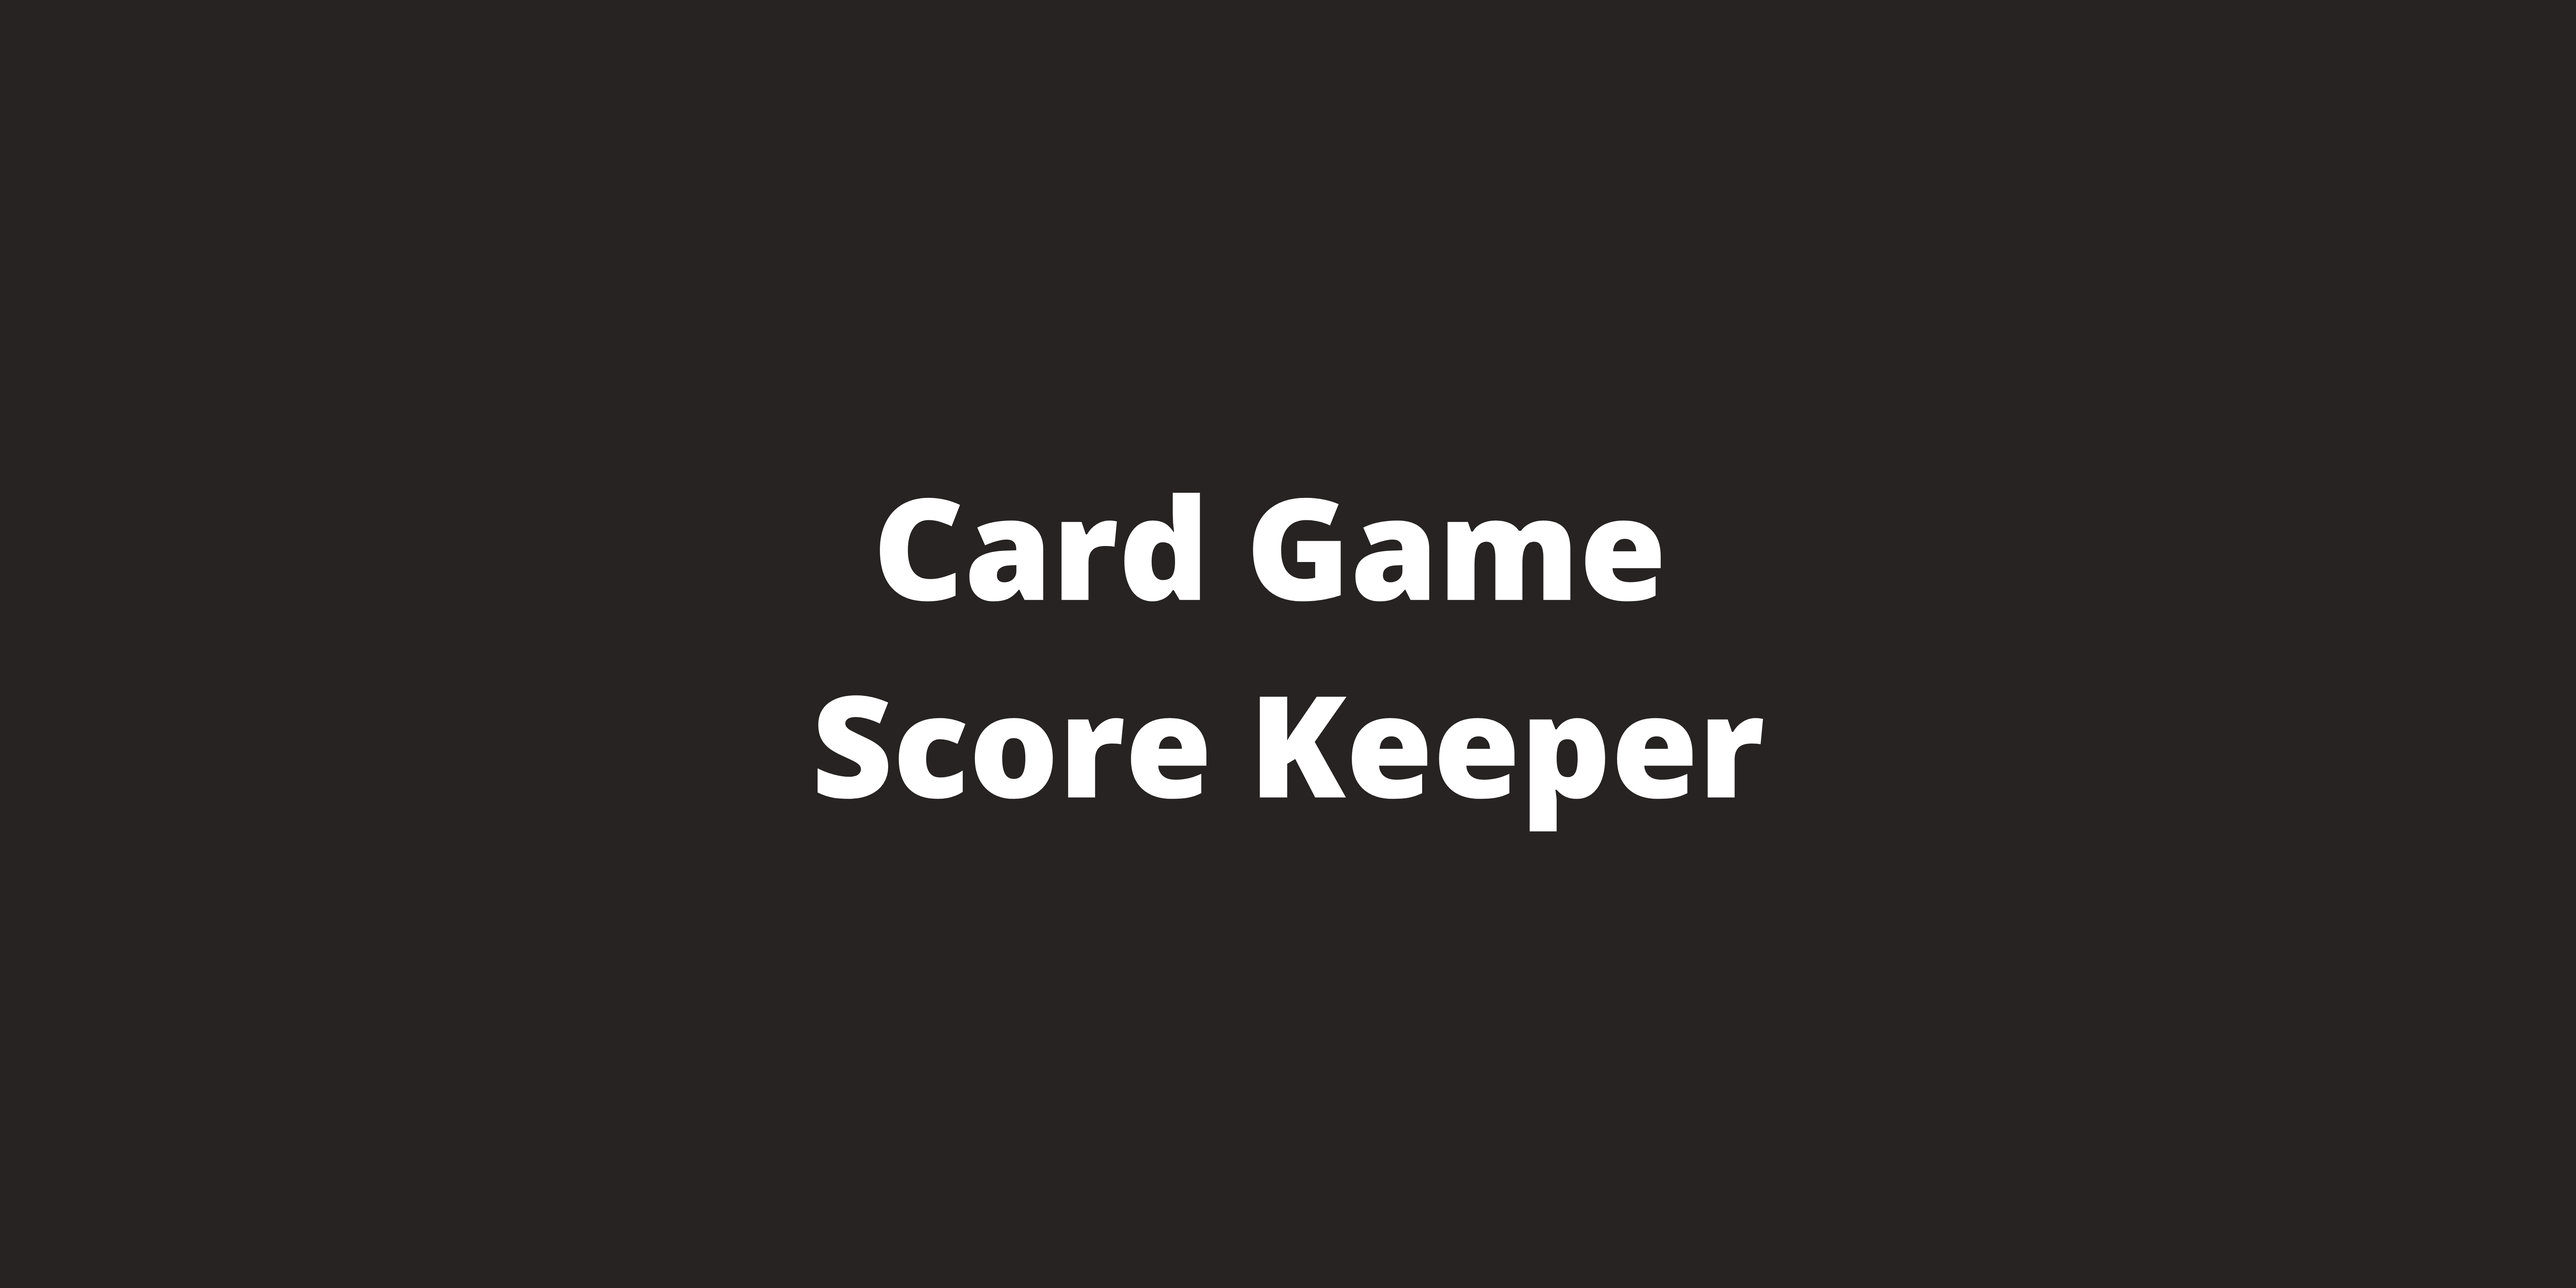
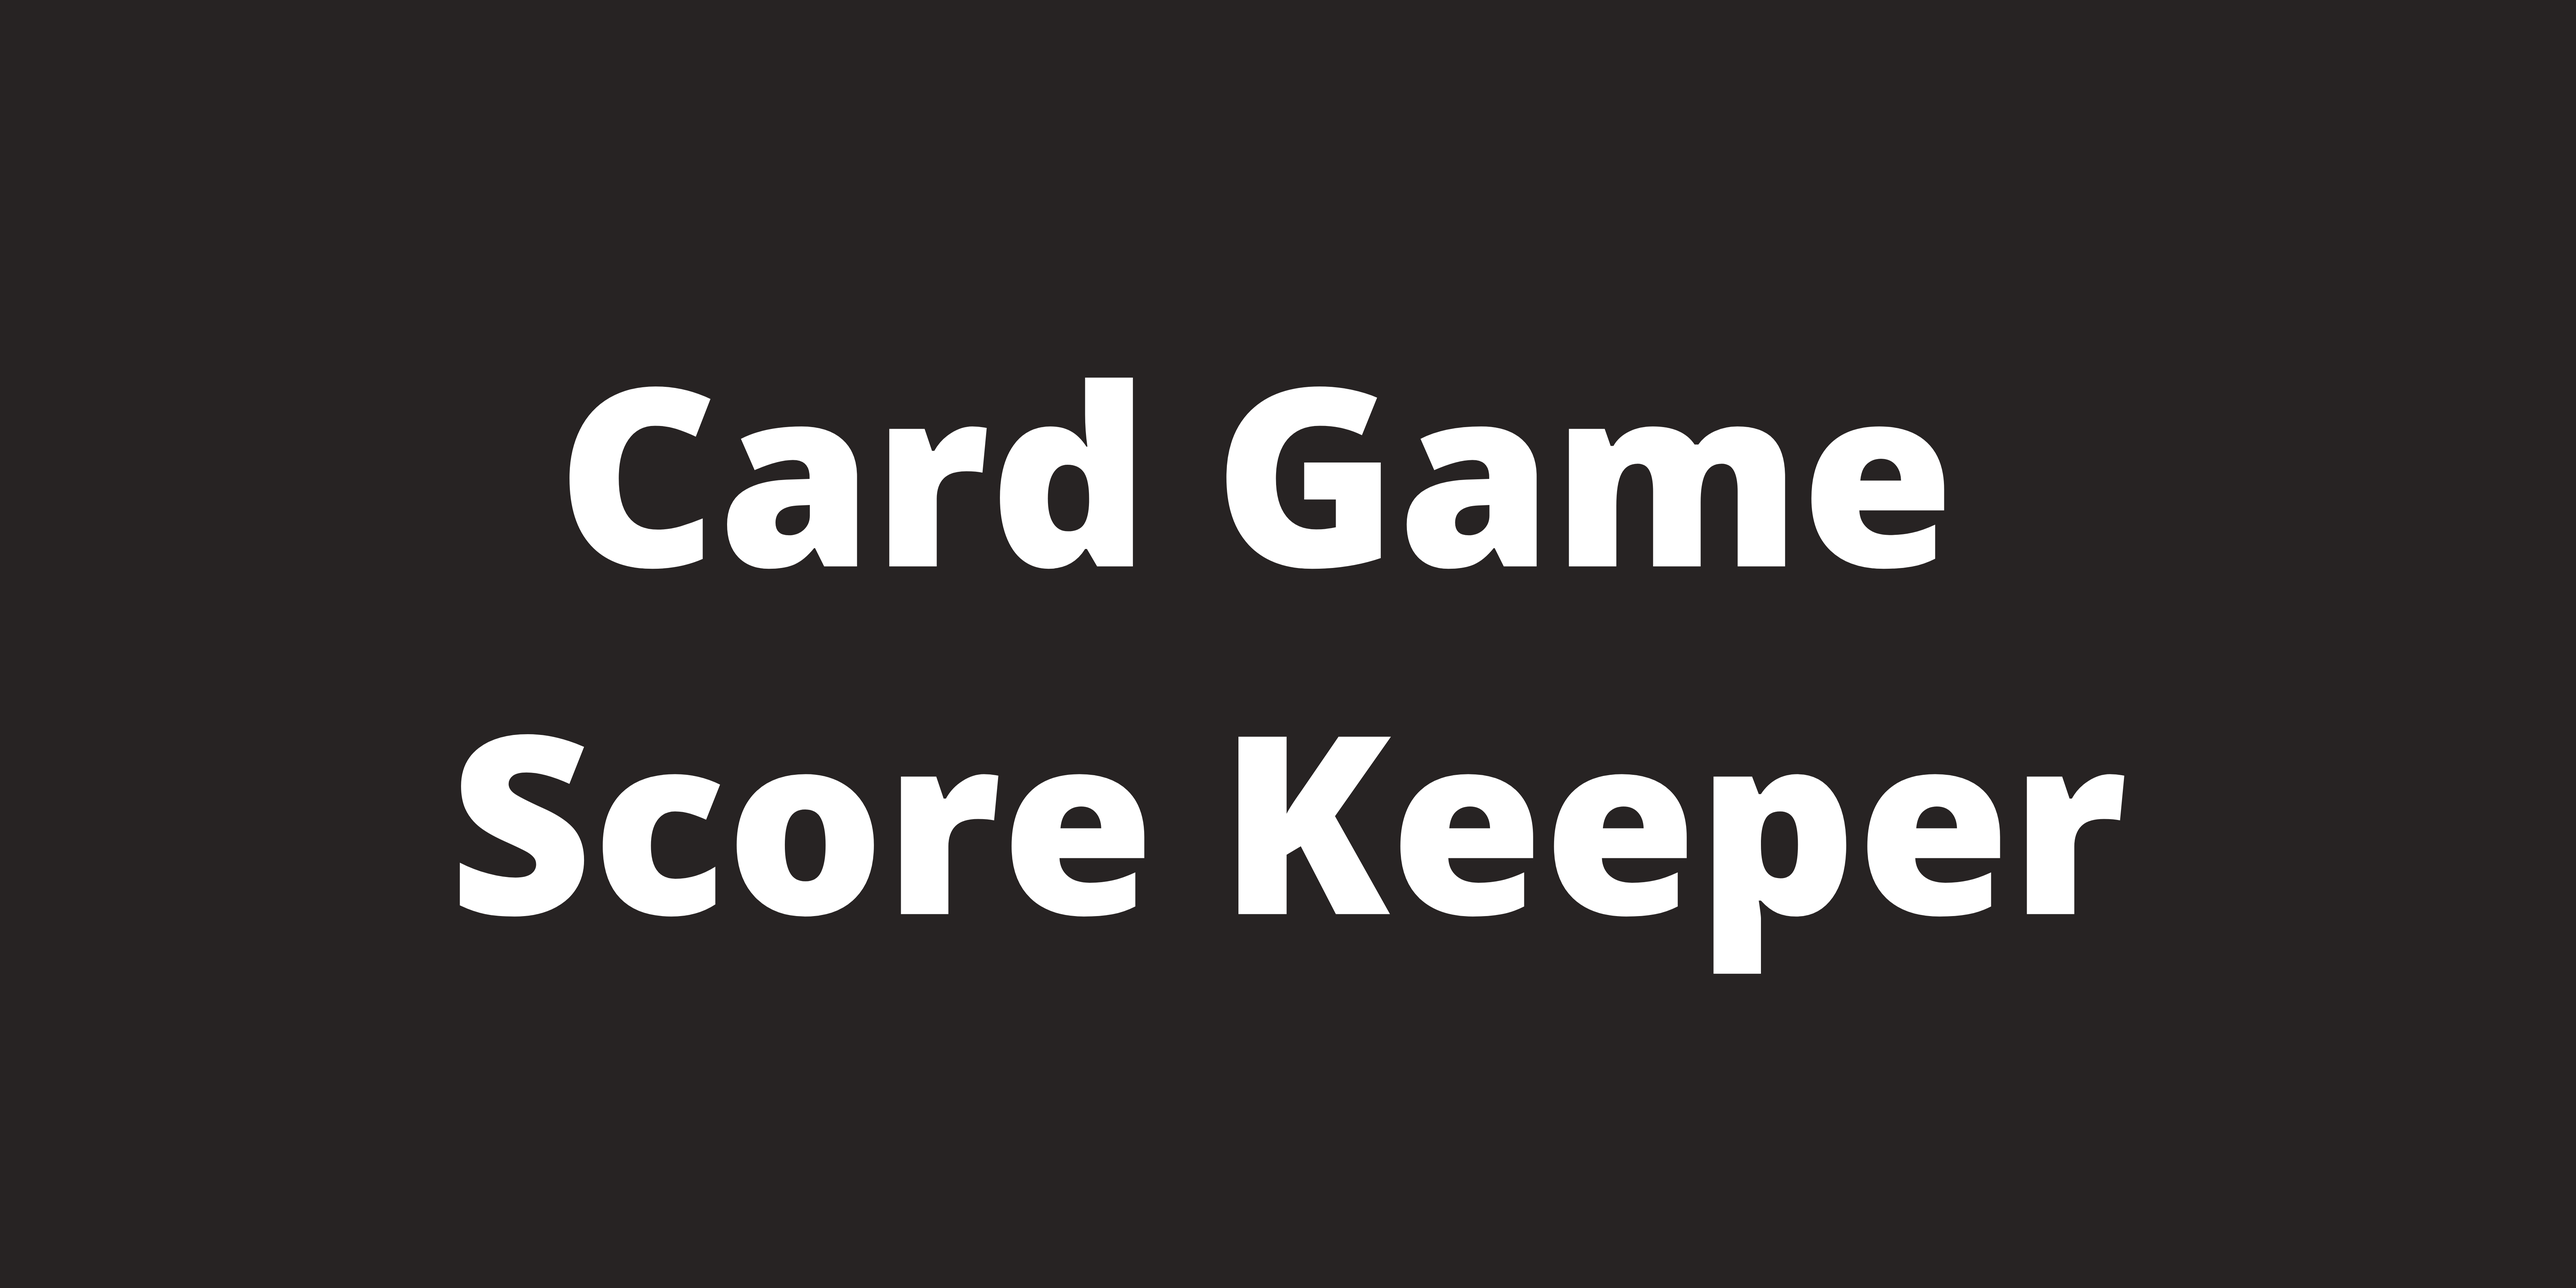
new styling

Changed region(s): [[0.1562, 0.5312, 0.8438, 0.7812], [0.2188, 0.2812, 0.7812, 0.4688]]

diff --git a/components/Layout.tsx b/components/Layout.tsx
@@ -8,28 +8,28 @@ type LayoutProps = {
 
 const Layout = ({children}: LayoutProps) => {
   return(
-    <div className="flex flex-col items-center justify-center  px-10 min-h-screen 	overflow-hidden	">
-      <header>
-        <nav className="h-8 absolute text-xl flex flex-row items-start justify-start mt-10 inset-0 px-10 lg:left-1/4 lg:px-2	">
+    <div>
+      <header className="sticky top-0 z-20 bg-white">
+        <nav className="py-2 px-4 text-xl font-bold mx-auto lg:max-w-4xl">
           <Link href={'/'}>
-            <a className="font-bold ">Home</a>
+            <a>Home</a>
           </Link>
           <Link href={'/#projects'}>
-            <a className="font-bold px-4">Projects</a>
+            <a className=" px-4">Projects</a>
           </Link>
           <Link href={'/HelpfulLinks'}>
-            <a className="font-bold "> Helpful Links</a>
+            <a>Helpful Links</a>
           </Link>
         </nav>
       </header>
-      <main className="flex flex-col items-center justify-center w-full lg:w-1/2 flex-1 text-center ">
+      <main className="px-4 flex flex-col items-center justify-center max-w-4xl mx-auto mt-16 antialiased ">
         {children}
       </main>
-      <footer className="pt-2 pb-12 border-t	w-full lg:w-1/2 h-full text-left text-xl">
+      <footer className="px-4 pt-2 pb-12 mt-10 border-t-2	max-w-4xl mx-auto text-left text-xl">
         <nav className="flex flex-row items-start justify-start mt-2">
-          <a className="" href={'https://github.com/theogainey/theogainey.com'}>GitHub</a>
+          <a href={'https://github.com/theogainey/theogainey.com'}>GitHub</a>
           <a className="px-4" href={'https://twitter.com/GaineyTheo'}>Twitter</a>
-          <a className="" href={'mailto:theogainey@gmail.com'}>Email</a>
+          <a  href={'mailto:theogainey@gmail.com'}>Email</a>
         </nav>
       </footer>
     </div>

diff --git a/pages/index.tsx b/pages/index.tsx
@@ -26,8 +26,8 @@ const Home = ({projects}: InferGetStaticPropsType<typeof getStaticProps>) => {
         <meta name="twitter:description" content="Theo Gainey - Full Stack Developer"/>
         <title>Theo Gainey </title>
       </Head>
-        <section id={'about'} className="h-screen flex flex-col items-center justify-center">
-          <h1 className="text-4xl font-bold my-2">Theo Gainey</h1>
+        <section id={'about'} className="flex flex-col items-center justify-center">
+          <h1 className="text-4xl font-bold mb-2">Theo Gainey</h1>
           <Image
             priority
             src="/profile.png"
@@ -38,13 +38,16 @@ const Home = ({projects}: InferGetStaticPropsType<typeof getStaticProps>) => {
             />
           <h2 className="text-xl font-bold">Full Stack Developer Apprentice</h2>
           <span className="text-xl">Sparkbox </span>
-          <p className="text-xl">Jan 2022 - present </p>
+          <span className="text-xl">Jan 2022 - present </span>
         </section>
-        <section id={'projects'} className="flex flex-col items-start justify-start w-full mb-6">
-          <h2 className="text-4xl font-bold mb-4 ">Projects</h2>
+        <section id={'projects'}>
+          <h2 className="text-4xl font-bold my-2 pt-16">Projects</h2>
+          <p className="text-lg ">See what I have built</p>
+          <div className="sm:grid sm:grid-cols-2 sm:gap-10">
           {projects.map((project) =>
             <ProjectCard key={project.id} {...project.properties}/>
           )}
+          </div>
         </section>
     </Layout>
   )

diff --git a/pages/projects/[id].tsx b/pages/projects/[id].tsx
@@ -4,6 +4,7 @@ import Layout from '../../components/Layout'
 import Block from '../../components/Block'
 import {getDatabase, getPage, getBlocks} from '../../lib/notion'
 import {parseOG} from '../../lib/metatags'
+import Image from 'next/image'
 
 const Page = ({blocks, pageProps:{description, slug, Name, image}}: InferGetStaticPropsType<typeof getStaticProps>) => {
 
@@ -26,14 +27,20 @@ const Page = ({blocks, pageProps:{description, slug, Name, image}}: InferGetStat
         {description && (<meta name="twitter:description" content={description['rich_text'][0].plain_text}/>)}
         {Name && (<title>{Name.title[0].plain_text} </title>)}
       </Head>
-      <section  className="my-16 w-full">
-        <h1 className="text-4xl font-bold my-4 py-2">{Name.title[0].plain_text}</h1>
+      <article>
+        <Image
+          src={`/${image.rich_text[0].plain_text}`}
+          height={960 }
+          width={1920 }
+          className={'p-2 border rounded-lg'}
+          alt={'test'}
+        />
         <div className="notion">
         {blocks.map((block) =>
           <Block key={block.id} {...block}/>
         )}
         </div>
-        </section>
+      </article>
     </Layout>
   )
 }

diff --git a/components/ProjectCard.tsx b/components/ProjectCard.tsx
@@ -1,27 +1,23 @@
 import Link from 'next/link'
-import Tag from './Tag'
 import FormatedDate from './FormatedDate'
 import Image from 'next/image'
 
-const ProjectCard = ({description, slug, created, tags, Name, image}) => {
+const ProjectCard = ({description, slug, created, Name, image}) => {
   return (
     <div className="w-full my-4 " >
       <Link href={`/projects/${slug.rich_text[0].plain_text}`}>
         <a>
-        <Image
-          src={`/${image.rich_text[0].plain_text}`}
-          height={960 }
-          width={1920 }
-          className={'p-2 border rounded-lg'}
-          alt={'test'}
-        />
-
+          <Image
+            src={`/${image.rich_text[0].plain_text}`}
+            height={960 }
+            width={1920 }
+            className={' border rounded-lg'}
+            alt={'test'}
+          />
           <h3 className="text-xl text-left font-bold">{Name.title[0].plain_text}</h3>
-      <p className=" text-left tex-md	">{description.rich_text[0].plain_text}</p>
-      </a>
-
+          <p className=" text-left ">{description.rich_text[0].plain_text}</p>
+        </a>
       </Link>
-
     </div>
   )
 }

diff --git a/styles/global.css b/styles/global.css
@@ -5,6 +5,10 @@
 .notion{
   @apply w-full text-left
 }
+.notion a{
+  @apply text-blue-500
+}
+
 .notion h2{
   @apply text-3xl font-bold my-2 py-2
 }
@@ -15,17 +19,17 @@
   @apply list-inside list-disc
 }
 .notion ol{
-  @apply list-inside list-decimal		
+  @apply list-inside list-decimal
 }
 
 .notion li{
   @apply text-xl font-bold  text-left
 }
 .notion p{
-  @apply text-lg text-left my-2
+  @apply text-lg  text-left my-2
 }
-.notion a{
-  @apply text-blue-500
+.notion p a{
+  @apply font-medium
 }
 .notion strong{
   @apply font-bold

diff --git a/components/LinkPreview.jsx b/components/LinkPreview.jsx
@@ -6,7 +6,7 @@ const LinkPreview =  ({link_preview, og}) => {
   }
 
   return (
-    <div className="rounded-lg shadow">
+    <div >
     {og? (
       <>
     {og.image &&(
@@ -17,7 +17,7 @@ const LinkPreview =  ({link_preview, og}) => {
         src={og.image}
         height={320 }
         width={640 }
-        className={'p-2 border rounded'}
+        className={'p-2 border rounded-lg'}
         alt={og.title}
       />
       </a>

diff --git a/tailwind.config.js b/tailwind.config.js
@@ -1,9 +1,15 @@
+const defaultTheme = require("tailwindcss/defaultTheme")
+
 module.exports = {
   mode: 'jit',
   purge: ['./pages/**/*.{js,ts,jsx,tsx}', './components/**/*.{js,ts,jsx,tsx}'],
   darkMode: false, // or 'media' or 'class'
   theme: {
-    extend: {},
+    extend: {
+      fontFamily: {
+        sans: ["Inter", ...defaultTheme.fontFamily.sans],
+      },
+    },
   },
   variants: {
     extend: {},

diff --git a/components/Bookmark.jsx b/components/Bookmark.jsx
@@ -7,7 +7,7 @@ const Bookmark =  ({bookmark, og}) => {
   }
 
   return (
-    <div className="p-1 pb-0 text-left border bg-white rounded-lg my-4 shadow">
+    <div className="p-1 pb-0 text-left border bg-white rounded-lg my-4">
     {og? (
       <a  href={bookmark.url}>
       {og.image? (
